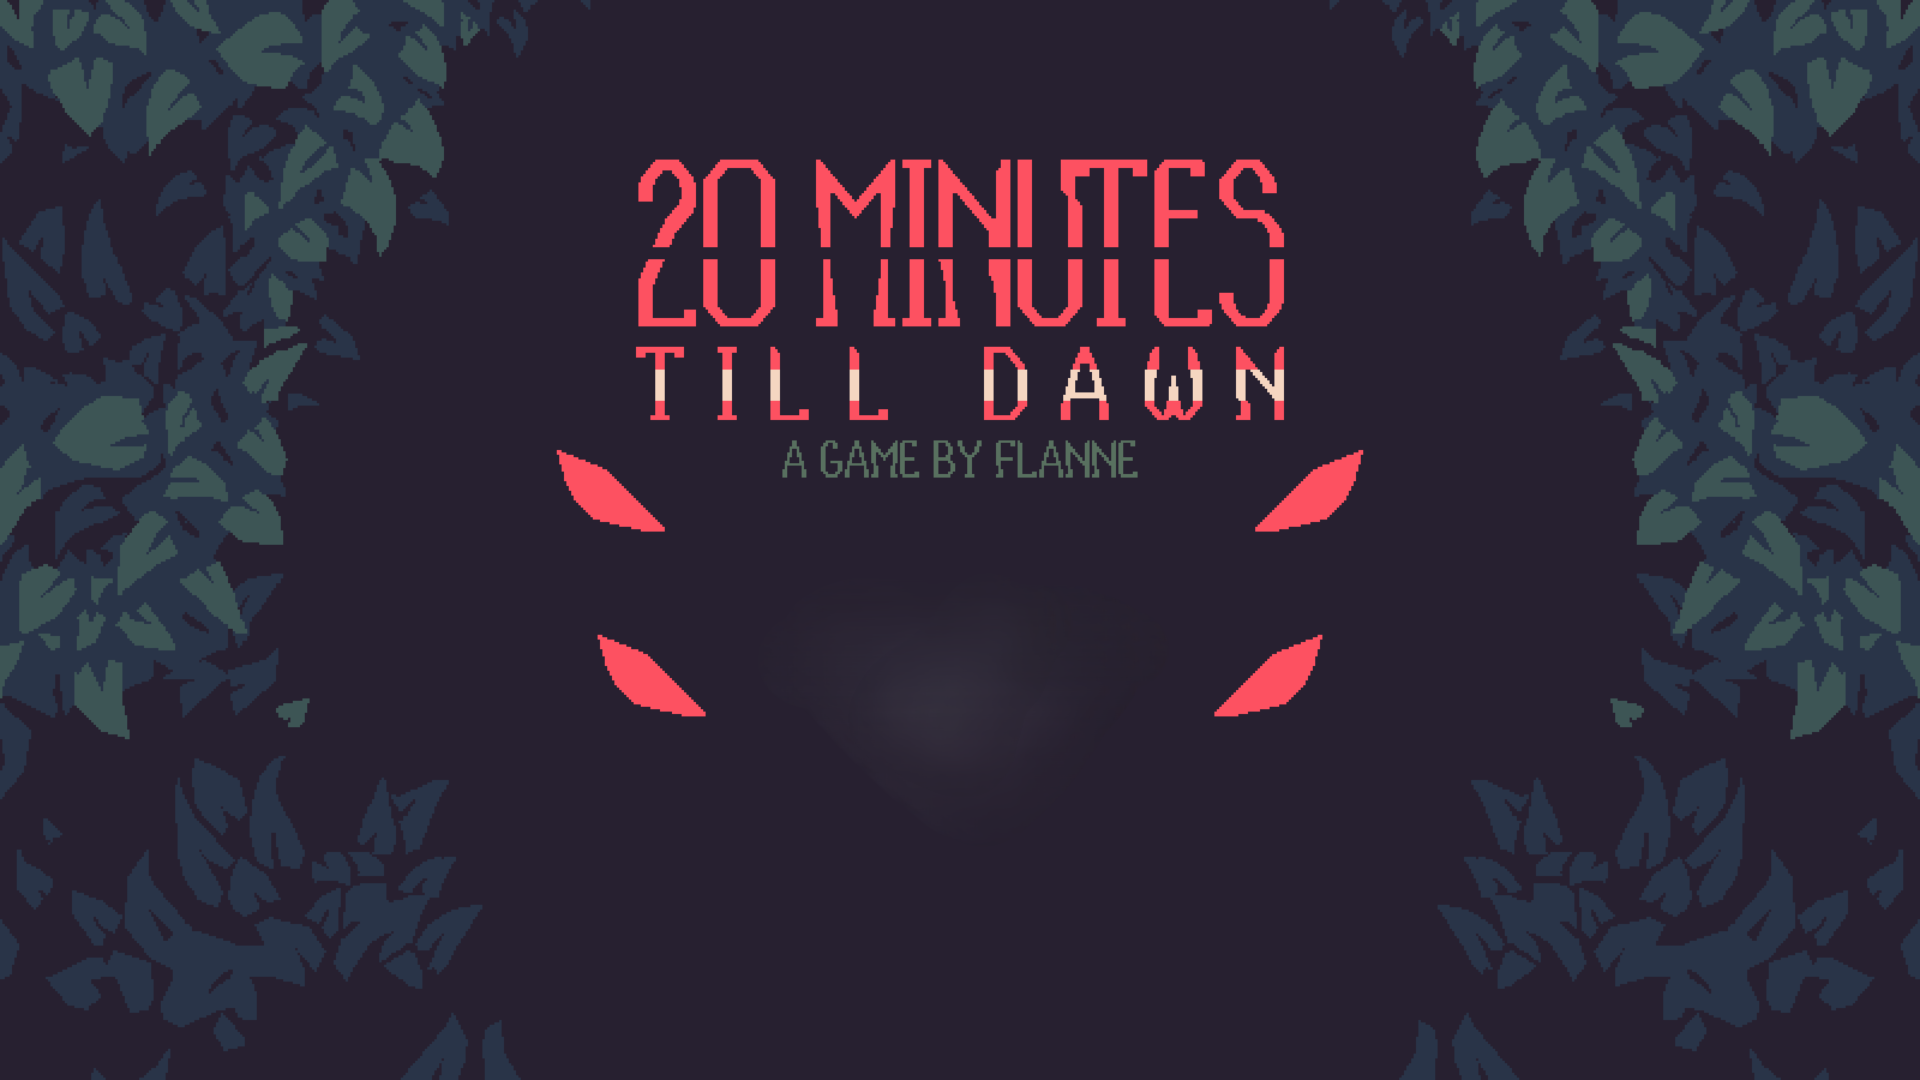
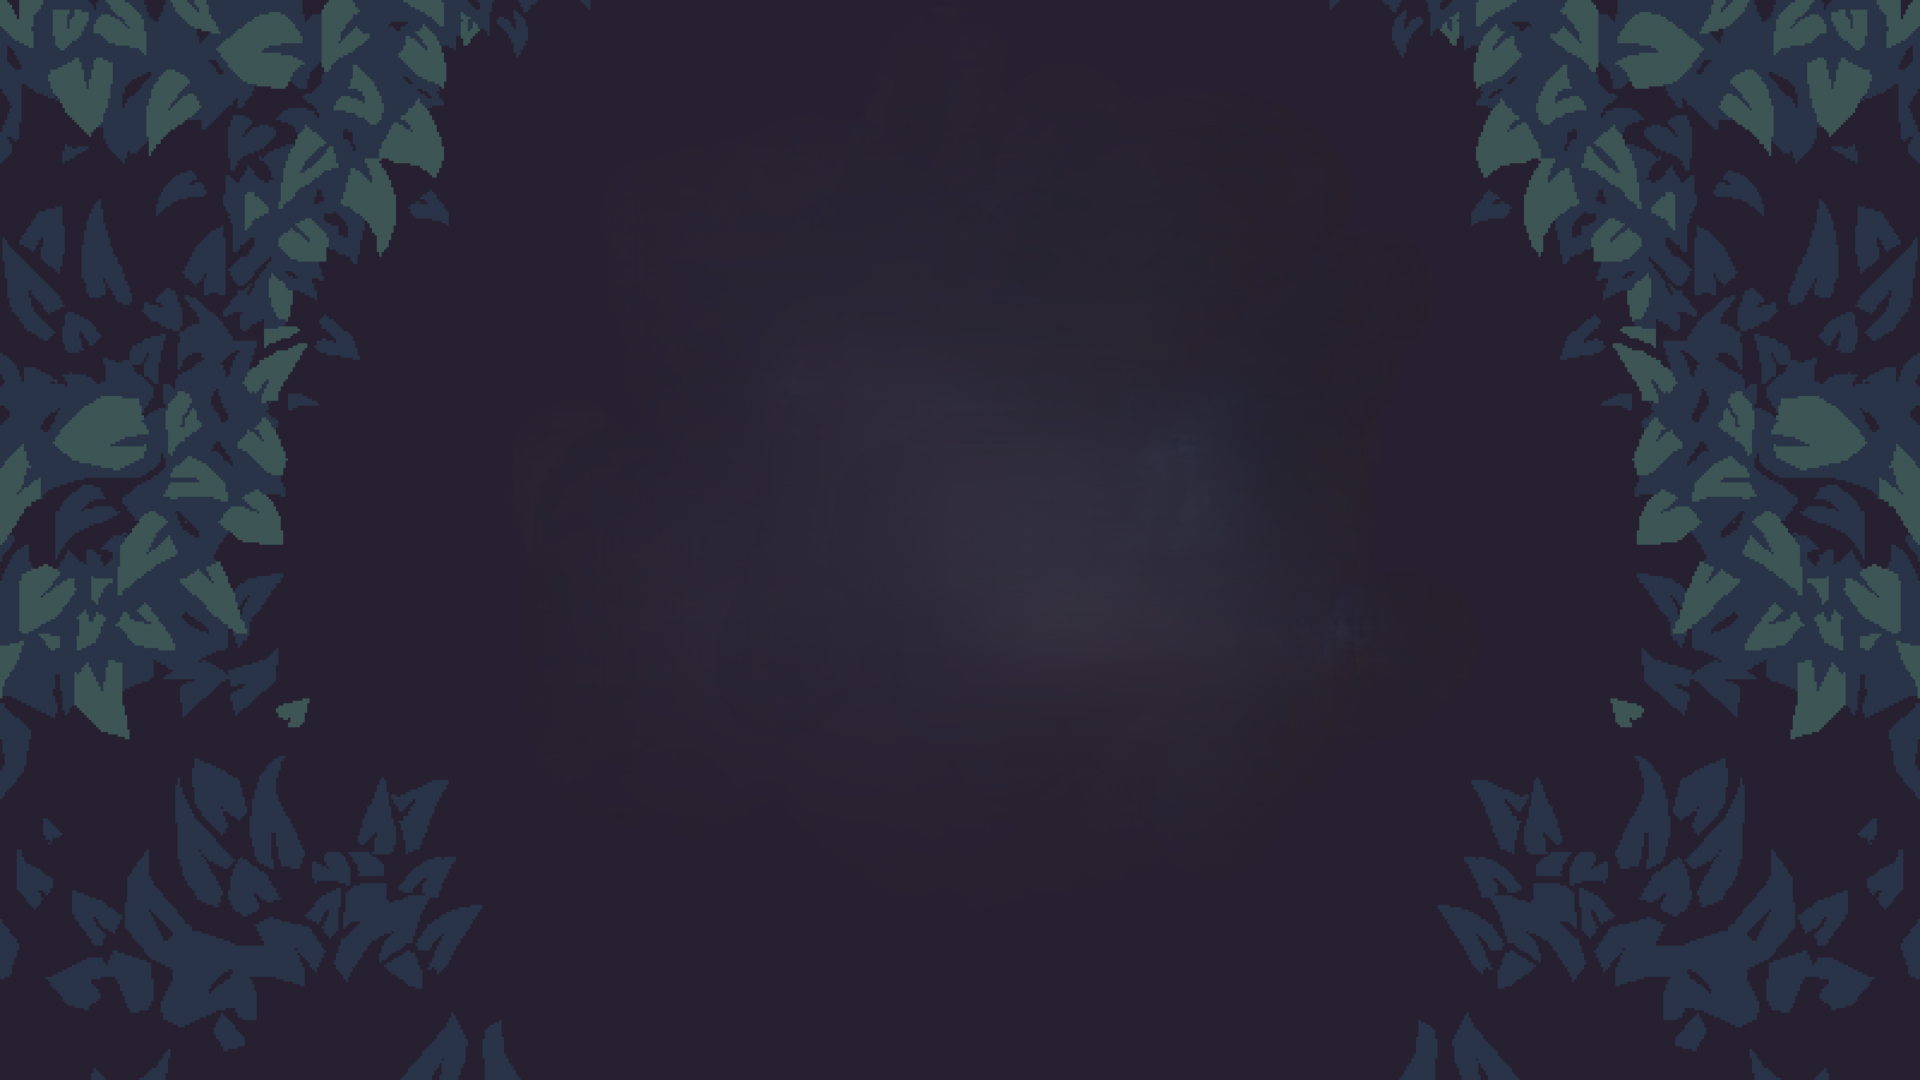
an animation added

diff --git a/core/src/main/java/com/tilldawn/View/LoginMenu.java b/core/src/main/java/com/tilldawn/View/LoginMenu.java
@@ -5,6 +5,8 @@ import com.badlogic.gdx.Gdx;
 import com.badlogic.gdx.Screen;
 import com.badlogic.gdx.graphics.GL20;
 import com.badlogic.gdx.graphics.Texture;
+import com.badlogic.gdx.graphics.g2d.Animation;
+import com.badlogic.gdx.graphics.g2d.TextureRegion;
 import com.badlogic.gdx.scenes.scene2d.Stage;
 import com.badlogic.gdx.scenes.scene2d.ui.*;
 import com.tilldawn.Controller.LoginMenuController;
@@ -19,6 +21,10 @@ public class LoginMenu implements Screen {
     private TextField passwordField;
     private TextButton loginButton;
     private TextButton back;
+    private float stateTime=0f;
+    private final Texture title=AssetManager.get20minutesTillDawnLogo();
+    private final Animation<TextureRegion> rightEyesAnimation =new Animation<>(1,AssetManager.getMenusRightEyes());
+    private final Animation<TextureRegion> leftEyeAnimation =new Animation<>(1,AssetManager.getMenusLeftEyes());
     public LoginMenu(Game game) {
         this.game = game;
     }
@@ -31,14 +37,28 @@ public class LoginMenu implements Screen {
     }
 
     @Override
-    public void render(float v) {
+    public void render(float delta) {
         Gdx.gl.glClear(GL20.GL_COLOR_BUFFER_BIT);
         stage.getBatch().begin();
-        stage.getBatch().draw(background, 0, 0,
-            stage.getViewport().getWorldWidth(),
-            stage.getViewport().getWorldHeight());
+        stage.getBatch().draw(background, 0, 0, stage.getViewport().getWorldWidth(), stage.getViewport().getWorldHeight());
+        stateTime+=delta;
+        float titleYPosition=stage.getViewport().getWorldHeight()-title.getHeight()*1.7f+(float)Math.sin(stateTime*2.5f)*10f;
+        float titleXPosition=(stage.getViewport().getWorldWidth()-title.getWidth()*1.5f)/2+(float)Math.cos(stateTime*2.5f)*30f;
+        float upRightEyeYPosition=550f+(float)Math.sin(Math.PI*stateTime*0.5f)*30f;
+        float upRightEyeXPosition=1250f;
+        float downRightEyeYPosition=upRightEyeYPosition-200;
+        float downRightEyeXPosition=upRightEyeXPosition-30;
+        float upLeftEyeYPosition=upRightEyeYPosition;
+        float upLeftEyeXPosition=upRightEyeXPosition-770;
+        float downLeftEyeYPosition=downRightEyeYPosition;
+        float downLeftEyeXPosition=upLeftEyeXPosition+30;
+        stage.getBatch().draw(title, titleXPosition, titleYPosition,title.getWidth()*1.5f, title.getHeight()*1.5f);
+        stage.getBatch().draw(rightEyesAnimation.getKeyFrame(stateTime,true),upRightEyeXPosition,upRightEyeYPosition);
+        stage.getBatch().draw(rightEyesAnimation.getKeyFrame(stateTime,true),downRightEyeXPosition,downRightEyeYPosition);
+        stage.getBatch().draw(leftEyeAnimation.getKeyFrame(stateTime,true),upLeftEyeXPosition,upLeftEyeYPosition);
+        stage.getBatch().draw(leftEyeAnimation.getKeyFrame(stateTime,true),downLeftEyeXPosition,downLeftEyeYPosition);
         stage.getBatch().end();
-        stage.act(v);
+        stage.act(delta);
         stage.draw();
     }
 

diff --git a/core/src/main/java/com/tilldawn/View/ProfileMenu.java b/core/src/main/java/com/tilldawn/View/ProfileMenu.java
@@ -5,6 +5,7 @@ import com.badlogic.gdx.Gdx;
 import com.badlogic.gdx.Screen;
 import com.badlogic.gdx.graphics.GL20;
 import com.badlogic.gdx.graphics.Texture;
+import com.badlogic.gdx.graphics.g2d.Animation;
 import com.badlogic.gdx.graphics.g2d.TextureRegion;
 import com.badlogic.gdx.scenes.scene2d.Stage;
 import com.badlogic.gdx.scenes.scene2d.ui.*;
@@ -25,6 +26,10 @@ public class ProfileMenu implements Screen {
     private TextButton deleteAccount;
     private TextButton changeAvatar;
     private TextButton back;
+    private float stateTime=0;
+    private final Texture title=AssetManager.get20minutesTillDawnLogo();
+    private final Animation<TextureRegion> rightEyesAnimation =new Animation<>(1,AssetManager.getMenusRightEyes());
+    private final Animation<TextureRegion> leftEyeAnimation =new Animation<>(1,AssetManager.getMenusLeftEyes());
     public ProfileMenu(Game game) {
         this.game=game;
     }
@@ -44,14 +49,28 @@ public class ProfileMenu implements Screen {
     }
 
     @Override
-    public void render(float v) {
+    public void render(float delta) {
         Gdx.gl.glClear(GL20.GL_COLOR_BUFFER_BIT);
         stage.getBatch().begin();
-        stage.getBatch().draw(background, 0, 0,
-            stage.getViewport().getWorldWidth(),
-            stage.getViewport().getWorldHeight());
+        stateTime+=delta;
+        stage.getBatch().draw(background, 0, 0, stage.getViewport().getWorldWidth(), stage.getViewport().getWorldHeight());
+        float titleYPosition=stage.getViewport().getWorldHeight()-title.getHeight()*1.7f+(float)Math.sin(stateTime*2.5f)*10f;
+        float titleXPosition=(stage.getViewport().getWorldWidth()-title.getWidth()*1.5f)/2+(float)Math.cos(stateTime*2.5f)*30f;
+        float upRightEyeYPosition=550f+(float)Math.sin(Math.PI*stateTime*0.5f)*30f;
+        float upRightEyeXPosition=1250f;
+        float downRightEyeYPosition=upRightEyeYPosition-200;
+        float downRightEyeXPosition=upRightEyeXPosition-30;
+        float upLeftEyeYPosition=upRightEyeYPosition;
+        float upLeftEyeXPosition=upRightEyeXPosition-770;
+        float downLeftEyeYPosition=downRightEyeYPosition;
+        float downLeftEyeXPosition=upLeftEyeXPosition+30;
+        stage.getBatch().draw(title, titleXPosition, titleYPosition,title.getWidth()*1.5f, title.getHeight()*1.5f);
+        stage.getBatch().draw(rightEyesAnimation.getKeyFrame(stateTime,true),upRightEyeXPosition,upRightEyeYPosition);
+        stage.getBatch().draw(rightEyesAnimation.getKeyFrame(stateTime,true),downRightEyeXPosition,downRightEyeYPosition);
+        stage.getBatch().draw(leftEyeAnimation.getKeyFrame(stateTime,true),upLeftEyeXPosition,upLeftEyeYPosition);
+        stage.getBatch().draw(leftEyeAnimation.getKeyFrame(stateTime,true),downLeftEyeXPosition,downLeftEyeYPosition);
         stage.getBatch().end();
-        stage.act(v);
+        stage.act(delta);
         stage.draw();
     }
 

diff --git a/core/src/main/java/com/tilldawn/View/RegisterMenu.java b/core/src/main/java/com/tilldawn/View/RegisterMenu.java
@@ -5,6 +5,8 @@ import com.badlogic.gdx.Gdx;
 import com.badlogic.gdx.Screen;
 import com.badlogic.gdx.graphics.GL20;
 import com.badlogic.gdx.graphics.Texture;
+import com.badlogic.gdx.graphics.g2d.Animation;
+import com.badlogic.gdx.graphics.g2d.TextureRegion;
 import com.badlogic.gdx.scenes.scene2d.Stage;
 import com.badlogic.gdx.scenes.scene2d.ui.*;
 import com.tilldawn.Controller.RegisterMenuController;
@@ -23,6 +25,10 @@ public class RegisterMenu implements Screen {
     private TextField securityAnswerField;
     private TextButton registerButton;
     private TextButton backButton;
+    private float stateTime=0f;
+    private final Texture title=AssetManager.get20minutesTillDawnLogo();
+    private final Animation<TextureRegion> rightEyesAnimation =new Animation<>(1,AssetManager.getMenusRightEyes());
+    private final Animation<TextureRegion> leftEyeAnimation =new Animation<>(1,AssetManager.getMenusLeftEyes());
 
     public RegisterMenu(Game game) {
         this.game = game;
@@ -86,6 +92,22 @@ public class RegisterMenu implements Screen {
 
         stage.getBatch().begin();
         stage.getBatch().draw(background, 0, 0, stage.getViewport().getWorldWidth(), stage.getViewport().getWorldHeight());
+        stateTime+=delta;
+        float titleYPosition=stage.getViewport().getWorldHeight()-title.getHeight()*1.7f+(float)Math.sin(stateTime*2.5f)*10f;
+        float titleXPosition=(stage.getViewport().getWorldWidth()-title.getWidth()*1.5f)/2+(float)Math.cos(stateTime*2.5f)*30f;
+        float upRightEyeYPosition=550f+(float)Math.sin(Math.PI*stateTime*0.5f)*30f;
+        float upRightEyeXPosition=1250f;
+        float downRightEyeYPosition=upRightEyeYPosition-200;
+        float downRightEyeXPosition=upRightEyeXPosition-30;
+        float upLeftEyeYPosition=upRightEyeYPosition;
+        float upLeftEyeXPosition=upRightEyeXPosition-770;
+        float downLeftEyeYPosition=downRightEyeYPosition;
+        float downLeftEyeXPosition=upLeftEyeXPosition+30;
+        stage.getBatch().draw(title, titleXPosition, titleYPosition,title.getWidth()*1.5f, title.getHeight()*1.5f);
+        stage.getBatch().draw(rightEyesAnimation.getKeyFrame(stateTime,true),upRightEyeXPosition,upRightEyeYPosition);
+        stage.getBatch().draw(rightEyesAnimation.getKeyFrame(stateTime,true),downRightEyeXPosition,downRightEyeYPosition);
+        stage.getBatch().draw(leftEyeAnimation.getKeyFrame(stateTime,true),upLeftEyeXPosition,upLeftEyeYPosition);
+        stage.getBatch().draw(leftEyeAnimation.getKeyFrame(stateTime,true),downLeftEyeXPosition,downLeftEyeYPosition);
         stage.getBatch().end();
 
         stage.act(delta);

diff --git a/core/src/main/java/com/tilldawn/Models/AssetManager.java b/core/src/main/java/com/tilldawn/Models/AssetManager.java
@@ -63,6 +63,18 @@ public class AssetManager {
     public static Texture get20minutesTillDawnLogo(){
         return new Texture(Gdx.files.internal("images/Texture2D/T_20Logo.png"));
     }
+    public static TextureRegion[] getMenusRightEyes(){
+        TextureRegion t1=new TextureRegion(new Texture(Gdx.files.internal("images/backgrounds/eyes/openRight.png")));
+        TextureRegion t2=new TextureRegion(new Texture(Gdx.files.internal("images/backgrounds/eyes/closeRight.png")));
+        return new TextureRegion[]{t1,t1,t1,t2};
+    }
+    public static TextureRegion[] getMenusLeftEyes(){
+        TextureRegion t1=new TextureRegion(new Texture(Gdx.files.internal("images/backgrounds/eyes/openRight.png")));
+        t1.flip(true, false);
+        TextureRegion t2=new TextureRegion(new Texture(Gdx.files.internal("images/backgrounds/eyes/closeRight.png")));
+        t2.flip(true, false);
+        return new TextureRegion[]{t1,t1,t1,t2};
+    }
     public static Music getUiClickSound(){
         return assetManager.uiClicks;
     }
